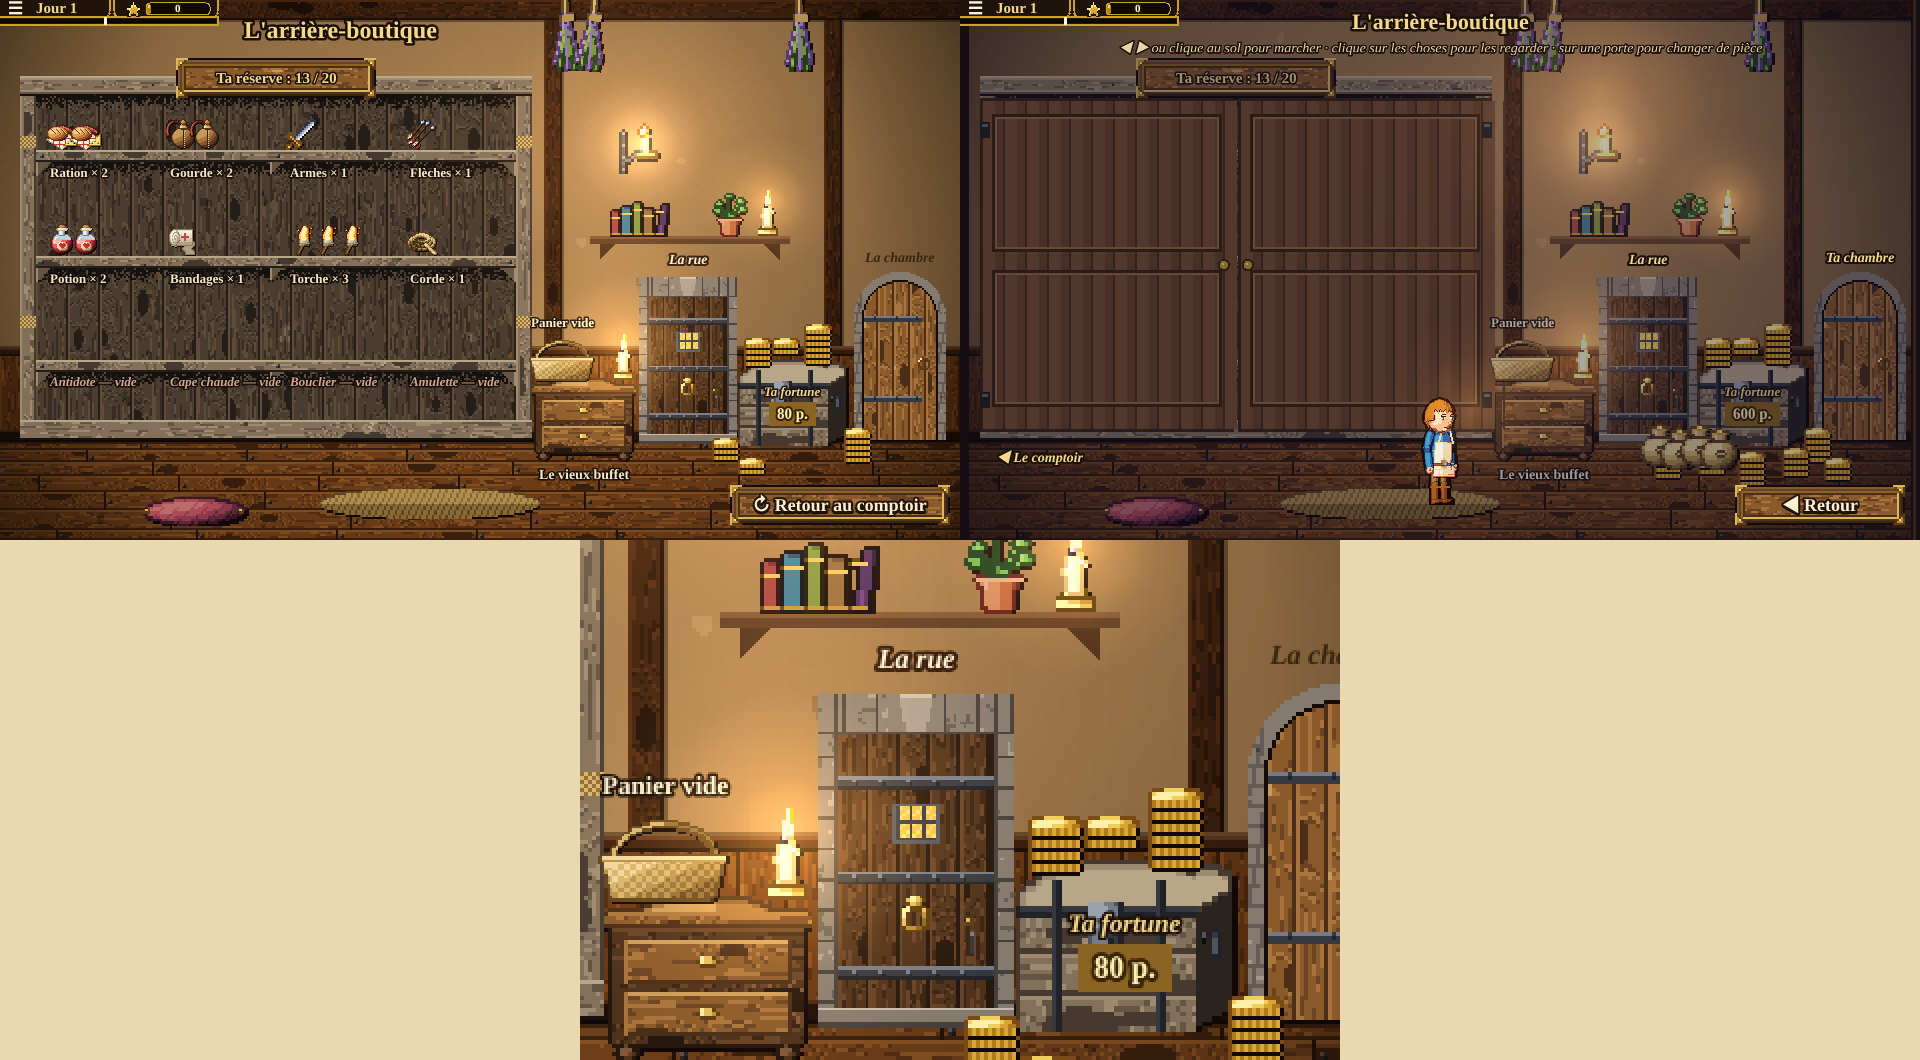
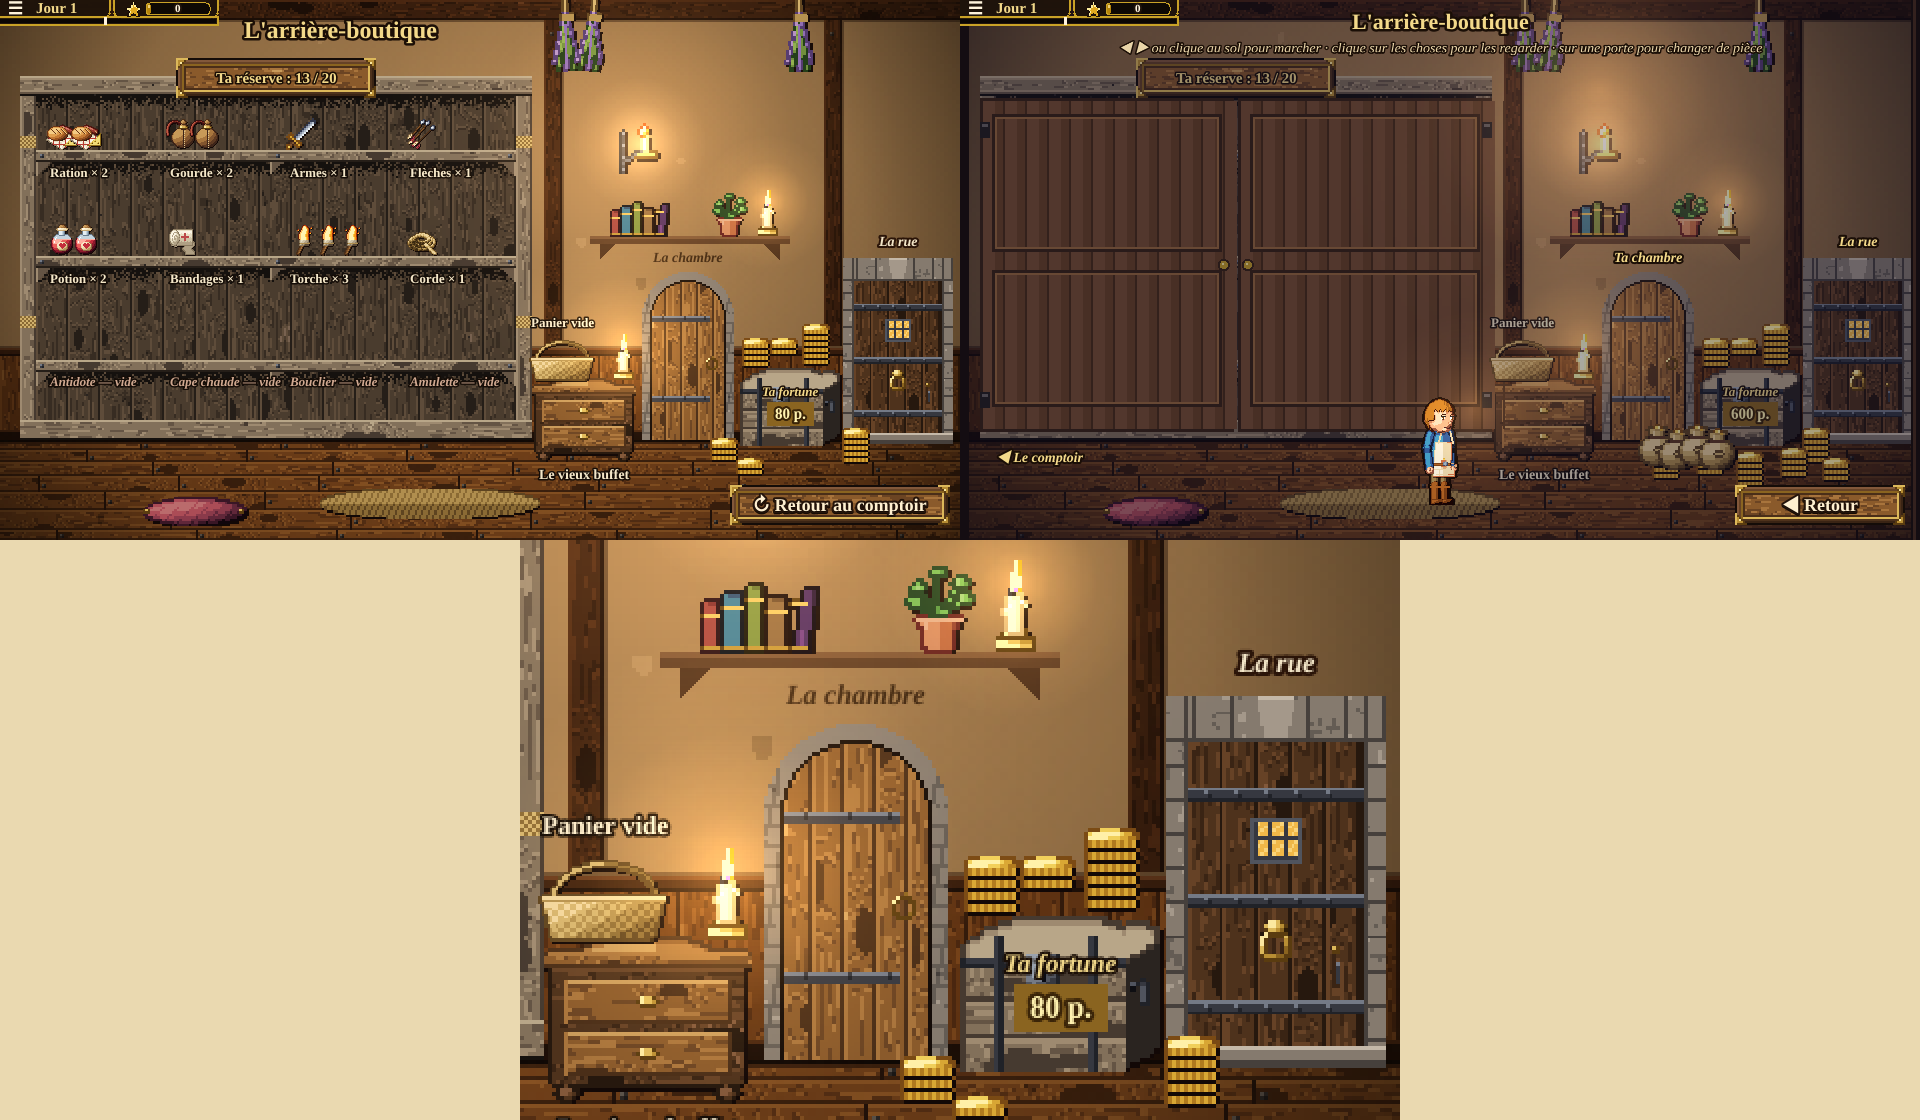
Porte de la rue plus grande (échangée avec celle de la chambre) ; les passants de la rue parlent ; GDD : réponses lumière et ombre, fin neutre
Claude-Session: https://claude.ai/code/session_018kbaP56NxxNMUzmj9EfKBC

diff --git a/src/regles.js b/src/regles.js
@@ -2015,7 +2015,7 @@ function terminerAventure(G, parti) {
   parti.progression = { avant, apres: { niveau: (h && h.niveau) || v.niveau, succes: succesDe(G, v.nom), relation: niveauRelation(G, v.nom).nom, reputation: G.reputation }, gain };
   connaitre(G, v);
   G.historique.unshift({
-    nom: v.nom, race: v.race, quete: v.quete, zone: v.zone, depart: parti.depart, retour: parti.retour,
+    nom: v.nom, race: v.race, feminin: !!v.feminin, quete: v.quete, zone: v.zone, depart: parti.depart, retour: parti.retour,
     issue: r.echec ? 'echec' : r.vivant ? 'vivant' : r.valeureux ? 'valeureux' : 'sans gloire', gain, chance: parti.chance,
     voulu: !r.vivant ? parti.voulu || null : null,
   });
@@ -2880,6 +2880,59 @@ function avisDeRecherche(G) {
     const a = AVIS_RECHERCHE[i];
     return { ...a, prime: Math.round(a.prime * (1 + 0.2 * anciennete) / 10) * 10, nouveau: anciennete === 0 };
   });
+}
+
+// (v0.84) Ce que disent les passants dans la rue : des nouvelles du jeu (événements, gazette, têtes
+// mises à prix, ton camp, tes dettes, tes héros...), ou des petites phrases pour rire.
+const PHRASES_RUE = [
+  "Ma voisine dit qu'un dragon a volé ses chaussettes. Moi je dis que c'est son mari.",
+  "J'ai acheté une épée chez Thorgal. Elle coupe très bien. Mon pain, surtout.",
+  "Les nains de la banque m'ont souri ce matin. Je vérifie mes poches depuis.",
+  "On dit que les elfes ne dorment jamais. Moi, je ne dors plus depuis qu'ils chantent la nuit.",
+  "Trois aventuriers m'ont demandé le chemin du donjon. Il n'y a pas de donjon. Ils sont partis quand même.",
+  "Mon âne refuse d'avancer s'il ne voit pas la fontaine. Il a ses habitudes.",
+  "Le crieur s'est enroué. Le silence, c'est merveilleux.",
+  "J'ai fait un vœu à la fontaine : que le prix du pain baisse. Il a monté. Elle m'a puni.",
+  "Paraît qu'un gobelin vend des choses « presque pas volées ». Presque.",
+  "Mon fils veut devenir aventurier. Je lui ai offert une corde. Il s'est attaché au lit.",
+  "Ils ont repeint la banque. Elle a l'air encore plus chère.",
+  "Hier j'ai croisé un orc très poli. Il m'a dit pardon en me marchant sur le pied. Deux fois.",
+  "Si tu vois un chat roux, ce n'est pas le mien. Le mien est roux aussi, mais lui, il est gentil.",
+  "On m'a dit d'acheter des bandages « au cas où ». J'en ai cent. Il ne m'arrive jamais rien.",
+  "Le hobbit d'à côté prend six repas par jour. Je l'ai suivi : il en prend sept.",
+];
+function phrasePassant(G, { nuit = false } = {}) {
+  const prendre = l => l[Math.floor(Math.random() * l.length)];
+  const nouvelles = [];
+  for (const e of evenementsActifs(G)) if (EVENEMENTS[e.id] && EVENEMENTS[e.id].nouvelle) nouvelles.push(`Tu as entendu ? ${EVENEMENTS[e.id].nouvelle}`);
+  const gaz = G.gazette && G.gazette.jour === G.jour ? G.gazette.lignes : [];
+  if (gaz.length) nouvelles.push(`La gazette dit : « ${prendre(gaz)} » Ça alors !`);
+  const avis = avisDeRecherche(G);
+  if (avis.length) {
+    const a = prendre(avis);
+    nouvelles.push(prendre([
+      `${a.nom}, ${a.prime} pièces la tête ! Si je le croise, je fais semblant de ne pas le voir. Ou pas.`,
+      `Tu as vu l'affiche de ${a.nom} au tableau ? ${a.prime} pièces ! Avec ça, je m'achète une vache. Deux, même.`,
+      `Ma tante jure avoir vu ${a.nom} acheter des navets. Elle voit des bandits partout, ma tante.`,
+    ]));
+  }
+  const p = palierCamp(G);
+  if (p >= 2) nouvelles.push(`Ton comptoir, c'est celui de la Confrérie, non ? Les gens disent que tu es quelqu'un de bien.`);
+  if (p <= -2) nouvelles.push(`On raconte que des Bannis entrent chez toi à la nuit tombée... Je n'ai rien dit, hein.`);
+  if ((G.prets || []).length) nouvelles.push(`Les banquiers nains parlent de toi. Rarement en bien.`);
+  if (G.argent > 600) nouvelles.push(`Il paraît que tu dors sur un tas d'or. Il n'est pas trop dur, le tas ?`);
+  const dernier = (G.historique || [])[0];
+  if (dernier && dernier.retour >= G.jour - 2) {
+    if (dernier.issue === 'vivant') nouvelles.push(`${dernier.nom.split(' ')[0]} est rentré${dernier.feminin ? 'e' : ''} les poches pleines, à ce qu'on dit ! Grâce à toi ?`);
+    else if (dernier.issue !== 'echec') nouvelles.push(`Pauvre ${dernier.nom.split(' ')[0]}... On dit qu'${dernier.feminin ? 'elle' : 'il'} n'est jamais revenu${dernier.feminin ? 'e' : ''}. Les temps sont durs.`);
+  }
+  if (typeof forgeConstruite === 'function' && forgeConstruite(G)) nouvelles.push(`Ça martèle fort chez toi, la nuit ! Ta forge réveille tout le quartier.`);
+  if (typeof chatAdopte === 'function' && chatAdopte(G)) nouvelles.push(`C'est ton chat, le matou qui dort sur ta fenêtre ? Il a l'air plus riche que moi.`);
+  if (G.mafia && G.mafia.engage && !G.mafia.sorti) nouvelles.push(`Des types en capuche noire traînent près de ta porte. Des amis à toi ?`);
+  if (nuit) nouvelles.push('Tu ne dors pas, toi non plus ? Les lanternes de la rue, ça me donne des idées.', 'Chut... la garde fait sa ronde.');
+  // une fois sur deux, une nouvelle du jeu ; sinon, une phrase pour rire
+  const part = Math.min(0.6, 0.25 + nouvelles.length * 0.08);   // (peu de nouvelles : surtout des phrases pour rire)
+  return nouvelles.length && Math.random() < part ? prendre(nouvelles) : prendre(PHRASES_RUE);
 }
 
 // Y a-t-il du neuf sur le tableau (un « ! » au-dessus) : un événement qui commence ou finit

diff --git a/src/scenes/ArriereScene.js b/src/scenes/ArriereScene.js
@@ -99,7 +99,7 @@ class ArriereScene extends Phaser.Scene {
   // des lingots quand on l'est vraiment. Et des reconnaissances de dettes quand ça va mal.
   dessinerFortune() {
     const G = this.G;
-    const cx = 792;   // (v0.66 : le coffre-fort contre le mur, entre le buffet et la porte de la chambre ; v0.84 : un peu à droite, pour la porte de la rue)
+    const cx = 790;   // (v0.66 : le coffre-fort contre le mur, entre le buffet et la porte de la chambre ; v0.84 : un peu à droite, pour la porte de la rue)
     const argent = Math.max(0, G.argent);
     // Des lingots, au-delà de 500 pièces
     const lingots = Math.min(6, Math.floor(argent / 500));
@@ -117,7 +117,7 @@ class ArriereScene extends Phaser.Scene {
       for (let k = 0; k < hauteur; k++) tas.push(this.add.image(cx + dx, base - k * 6, 'pieceTranche').setScale(2).setDepth(1));
     }
     // Le coffre
-    this.add.image(cx, SOL_ARRIERE + 6, coffreHD(this, niveauAmelioration(G, 'coffre'))).setOrigin(0.5, 1).setScale(2.6);
+    this.add.image(cx, SOL_ARRIERE + 6, coffreHD(this, niveauAmelioration(G, 'coffre'))).setOrigin(0.5, 1).setScale(2.35);
     // Des sacs de pièces, au-delà de 150
     const sacs = Math.min(4, Math.floor(argent / 150));
     for (let i = 0; i < sacs; i++) this.add.image(cx - 92 + i * 20, SOL_ARRIERE + 26 + (i % 2) * 4, 'sacHD').setOrigin(0.5, 1).setScale(2.5).setDepth(2);
@@ -145,7 +145,7 @@ class ArriereScene extends Phaser.Scene {
   // Les décorations achetées à la brocante, accrochées aux murs. Clic : leur effet.
   dessinerDecos() {
     const G = this.G;
-    const places = [[640, 66], [692, 66], [744, 66], [556, 206], [826, 206], [556, 338], [826, 338], [588, 66], [796, 66], [826, 272]];
+    const places = [[640, 66], [692, 66], [744, 66], [556, 206], [812, 196], [556, 338], [812, 300], [588, 66], [796, 66], [812, 248]];
     (G.decos || []).slice(0, places.length).forEach((id, i) => {
       const [x, y] = places[i];
       this.add.rectangle(x, y - 24, 3, 3, 0x2a1a10); // le clou
@@ -190,7 +190,7 @@ class ArriereScene extends Phaser.Scene {
 
   // La porte de la chambre
   dessinerPorte() {
-    const x = 900;
+    const x = 688;   // (v0.84 : la porte de la rue a pris sa place au bord, plus grande)
     this.add.image(x, SOL_ARRIERE, 'porteHD').setOrigin(0.5, 1).setScale(2);
     // Une bougie sur le petit appui à côté de la porte
     this.add.text(x, SOL_ARRIERE - 182, 'La chambre', style(12, '#3a2410', { fontStyle: 'bold italic' })).setOrigin(0.5);
@@ -200,11 +200,11 @@ class ArriereScene extends Phaser.Scene {
 
   // (v0.84) la porte de derrière, qui donne sur la ruelle et la rue (demandée par les testeurs)
   dessinerPorteRue() {
-    const x = 688;
-    this.add.image(x, SOL_ARRIERE + 4, 'porteRueHD').setOrigin(0.5, 1).setScale(1.7);
+    const x = 898;
+    this.add.image(x, SOL_ARRIERE + 4, 'porteRueHD').setOrigin(0.5, 1).setScale(1.9);
     // l'écriteau peint au-dessus
-    this.add.text(x, SOL_ARRIERE - 180, 'La rue', style(13, '#f3e6c8', { fontStyle: 'bold italic', stroke: '#2a1408', strokeThickness: 4 })).setOrigin(0.5);
-    const zone = this.add.rectangle(x, SOL_ARRIERE - 80, 96, 160, 0xffffff, 0).setInteractive({ useHandCursor: true });
+    this.add.text(x, SOL_ARRIERE - 198, 'La rue', style(13, '#f3e6c8', { fontStyle: 'bold italic', stroke: '#2a1408', strokeThickness: 4 })).setOrigin(0.5);
+    const zone = this.add.rectangle(x, SOL_ARRIERE - 90, 108, 180, 0xffffff, 0).setInteractive({ useHandCursor: true });
     zone.on('pointerdown', () => { if (this.porteRue) this.porteRue(); });
   }
 

diff --git a/src/scenes/RueScene.js b/src/scenes/RueScene.js
@@ -75,7 +75,27 @@ class RueScene extends Phaser.Scene {
     const p = imageCorps(this, x0, SOL_PROMENADE + 4 + Math.random() * 8, quoi, 7.2).setFlipX(sens < 0).setDepth(8.45);
     const duree = Math.abs(x1 - x0) * 11;
     pasDeMarche(this, p, duree, { poussiere: false });
-    this.tweens.add({ targets: p, x: x1, duration: duree, onComplete: () => p.destroy() });
+    this.tweens.add({ targets: p, x: x1, duration: duree, onComplete: () => { if (p.bulle) p.bulle.destroy(); p.destroy(); } });
+    // (v0.84) un passant sur deux lâche une phrase en passant (une nouvelle du jeu, ou pour rire) ;
+    // on peut aussi cliquer sur lui
+    p.setInteractive({ useHandCursor: true }).on('pointerdown', () => this.passantParle(p));
+    if (Math.random() < 0.5) this.time.delayedCall(1200 + Math.random() * 2500, () => this.passantParle(p));
+  }
+
+  passantParle(p) {
+    if (!p.active || (p.bulle && p.bulle.active)) return;
+    const cam = this.cameras.main;
+    if (p.x < cam.scrollX + 40 || p.x > cam.scrollX + 920) return;   // (hors de l'écran : il se tait)
+    const texte = phrasePassant(this.G);
+    Son.jouer('voix', { personne: { nom: p.texture.key, race: 'humain' }, ton: Phaser.Utils.Array.GetRandom(['content', 'rire', 'etonne', 'neutre']) });
+    const bulle = p.bulle = this.add.text(p.x, p.y - p.displayHeight - 8, texte, style(12, '#3b2410', { fontStyle: 'italic', backgroundColor: '#f3e6c8', padding: { x: 8, y: 5 }, wordWrap: { width: 230 }, align: 'center' })).setOrigin(0.5, 1).setDepth(9).setScale(0);
+    this.tweens.add({ targets: bulle, scale: 1, duration: 180, ease: 'Back.easeOut' });
+    const suivre = () => { if (bulle.active && p.active) bulle.setX(p.x); };
+    this.events.on('update', suivre);
+    this.time.delayedCall(Math.max(3000, texte.length * 60), () => {
+      this.events.off('update', suivre);
+      if (bulle.active) this.tweens.add({ targets: bulle, alpha: 0, duration: 300, onComplete: () => bulle.destroy() });
+    });
   }
 
   dire(texte) {

diff --git a/src/scenes/PromenadeScene.js b/src/scenes/PromenadeScene.js
@@ -89,11 +89,11 @@ class PromenadeScene extends Cinematique {
     };
     const o = PIECES_PROMENADE;
     // La chambre : une porte vers l'arrière-boutique
-    porte(900, { piece: P_ARRIERE, x: o[P_ARRIERE].x + 840 }, "L'arrière-boutique", { sol: SOL_PROMENADE - 10 });
+    porte(900, { piece: P_ARRIERE, x: o[P_ARRIERE].x + 640 }, "L'arrière-boutique", { sol: SOL_PROMENADE - 10 });
     // L'arrière-boutique : la porte de la chambre (déjà dessinée), et le passage vers le comptoir
-    porte(o[P_ARRIERE].x + 900, { piece: P_CHAMBRE, x: 840 }, 'Ta chambre', { dessiner: false, sol: SOL_ARRIERE });
+    porte(o[P_ARRIERE].x + 688, { piece: P_CHAMBRE, x: 840 }, 'Ta chambre', { dessiner: false, sol: SOL_ARRIERE });
     // (v0.84) la porte de derrière : on sort dans la rue sans repasser par le comptoir
-    porte(o[P_ARRIERE].x + 688, { piece: P_DEHORS, x: this.porteShop.x + 60 }, 'La rue', { dessiner: false, sol: SOL_ARRIERE, large: 96, haut: 160, ecriteauY: SOL_ARRIERE - 180 });
+    porte(o[P_ARRIERE].x + 898, { piece: P_DEHORS, x: this.porteShop.x + 60 }, 'La rue', { dessiner: false, sol: SOL_ARRIERE, large: 108, haut: 180, ecriteauY: SOL_ARRIERE - 198 });
     porte(o[P_ARRIERE].x + 22, { piece: P_COMPTOIR, x: 0 }, '◀ Le comptoir', { dessiner: false, sol: SOL_ARRIERE + 30, ecriteauX: 58, ecriteauY: SOL_ARRIERE + 18 });   // (v0.57 : un simple passage au bord, sans porte devant l'étagère)
     // Le comptoir : on n'y marche pas ; comme dans la journée, on se retourne vers
     // l'arrière-boutique ou l'atelier d'un bouton, et la fenêtre donne sur la rue

diff --git a/docs/game-design.md b/docs/game-design.md
@@ -744,6 +744,28 @@ d'armure. C'est peu, et le joueur ne voit pas qu'il choisit.
    ne le découvre qu'après) ?
 4. Le barème te va-t-il, ou certaines actions doivent-elles peser plus ?
 
+### Lumière et ombre : réponses du joueur (19/10)
+- **Tout le système est validé** : le barème, le Carrefour et le serment, le livre des deux voies, les
+  ☀ / ☾ sur les boutons des choix (en pixel art), l'avertissement de Garrick avant le sceau.
+- **Le livre des deux voies** montre seulement le palier suivant de chaque côté (ce qu'il offrira) ;
+  les paliers d'après restent cachés : mystère et découverte.
+- **Le Carrefour** : il y a 3 paliers de chaque côté (25, 60, 90 points) ; le Carrefour vient au
+  **2e palier** (60), d'un côté ou de l'autre.
+- **Les ☀ / ☾ sur les boutons** ne se voient qu'avec assez de flair (une faculté débloquée par
+  l'expérience), bien avant le moment du choix de camp.
+- **Le barème** : ce sont les points que chaque action rapporte (ex. mission en terre de lumière
+  +3 ☀, âme offerte +5 ☾, cacher un recherché +4 ☾...), listés plus haut.
+- **La fin neutre** (idée du joueur) : le joueur qui ne bascule jamais assez d'un côté remet l'armure
+  au bras droit guerrier du Grand Sage. Plus tard, on apprend que ce guerrier a « dompté » le dragon
+  (qui appartenait en fait au Grand Sage) et qu'ils ont anéanti les forces des Bannis : la paix
+  revient sur les contrées... une fausse paix. Le joueur ne sait rien du complot, n'a pas de combat
+  final avec son armure, et n'a jamais eu à choisir.
+  Points à préciser (proposés par Claude) : être neutre = ne pas avoir prêté serment au Carrefour (ou
+  ne jamais l'avoir atteint) et rester sous le 2e palier quand l'armure est complète ; quelques
+  indices pour donner envie de rejouer (une ligne étrange de la gazette, un clin d'œil de la
+  Faucheuse) ; ce que deviennent la Main Noire et la Faucheuse pour un joueur neutre ; si le comptoir
+  continue après la fin (partie libre).
+
 ### On le fera plus tard
 - **Plus de musiques** pour en enchaîner plusieurs et ne jamais lasser le joueur avec une seule.
 - **Le jeu du forgeron** : quand la forge est achetée, le joueur peut forger lui-même, avec tout
